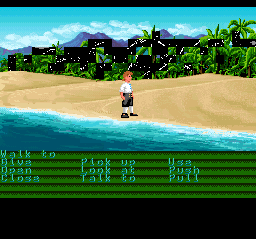
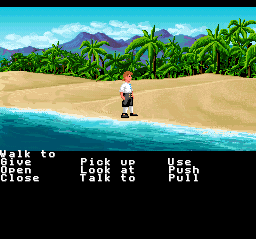
fix: CGRAM HDMA timing — start verb palette 4 scanlines early to avoid color bleed
The HDMA repeat block that writes verb font colors to CGRAM took 4
scanlines (144-147) to complete. "Walk to" at y=144 rendered before
all colors were set, showing room palette colors. Move the repeat
block to scanlines 140-143 so colors are fully applied by scanline 144.

diff --git a/src/object/scummvm/scummvm.h b/src/object/scummvm/scummvm.h
@@ -300,14 +300,14 @@ VerbHdmaTable:
 VerbCgramHdmaTable:
   .db 128                               ; scanlines 0-127: room area
   .db $70, $70, $00, $00               ;   CGRAM[$70] = $0000 (pal7 color0, transparent)
-  .db 16                                ; scanlines 128-143: room area continued
+  .db 12                                ; scanlines 128-139: room area continued
   .db $70, $70, $00, $00               ;   CGRAM[$70] = $0000 (pal7 color0, transparent)
-  .db $84                               ; repeat 4 lines (scanlines 144-147)
+  .db $84                               ; repeat 4 lines (scanlines 140-143)
   .db $00, $00, $00, $00               ;   CGRAM[$00] = $0000 (backdrop = black)
   .db $71, $71, $18, $63               ;   CGRAM[$71] = $6318 (pal7 color1 = light grey)
   .db $72, $72, $4A, $29               ;   CGRAM[$72] = $294A (pal7 color2 = dark grey)
   .db $73, $73, $FF, $7F               ;   CGRAM[$73] = $7FFF (pal7 color3 = white body)
-  .db 76                                ; scanlines 148-223: verb area remainder
+  .db 80                                ; scanlines 144-223: verb area
   .db $70, $70, $00, $00               ;   CGRAM[$70] = $0000 (colors already set)
   .db 0                                 ; end of table
 .ends
